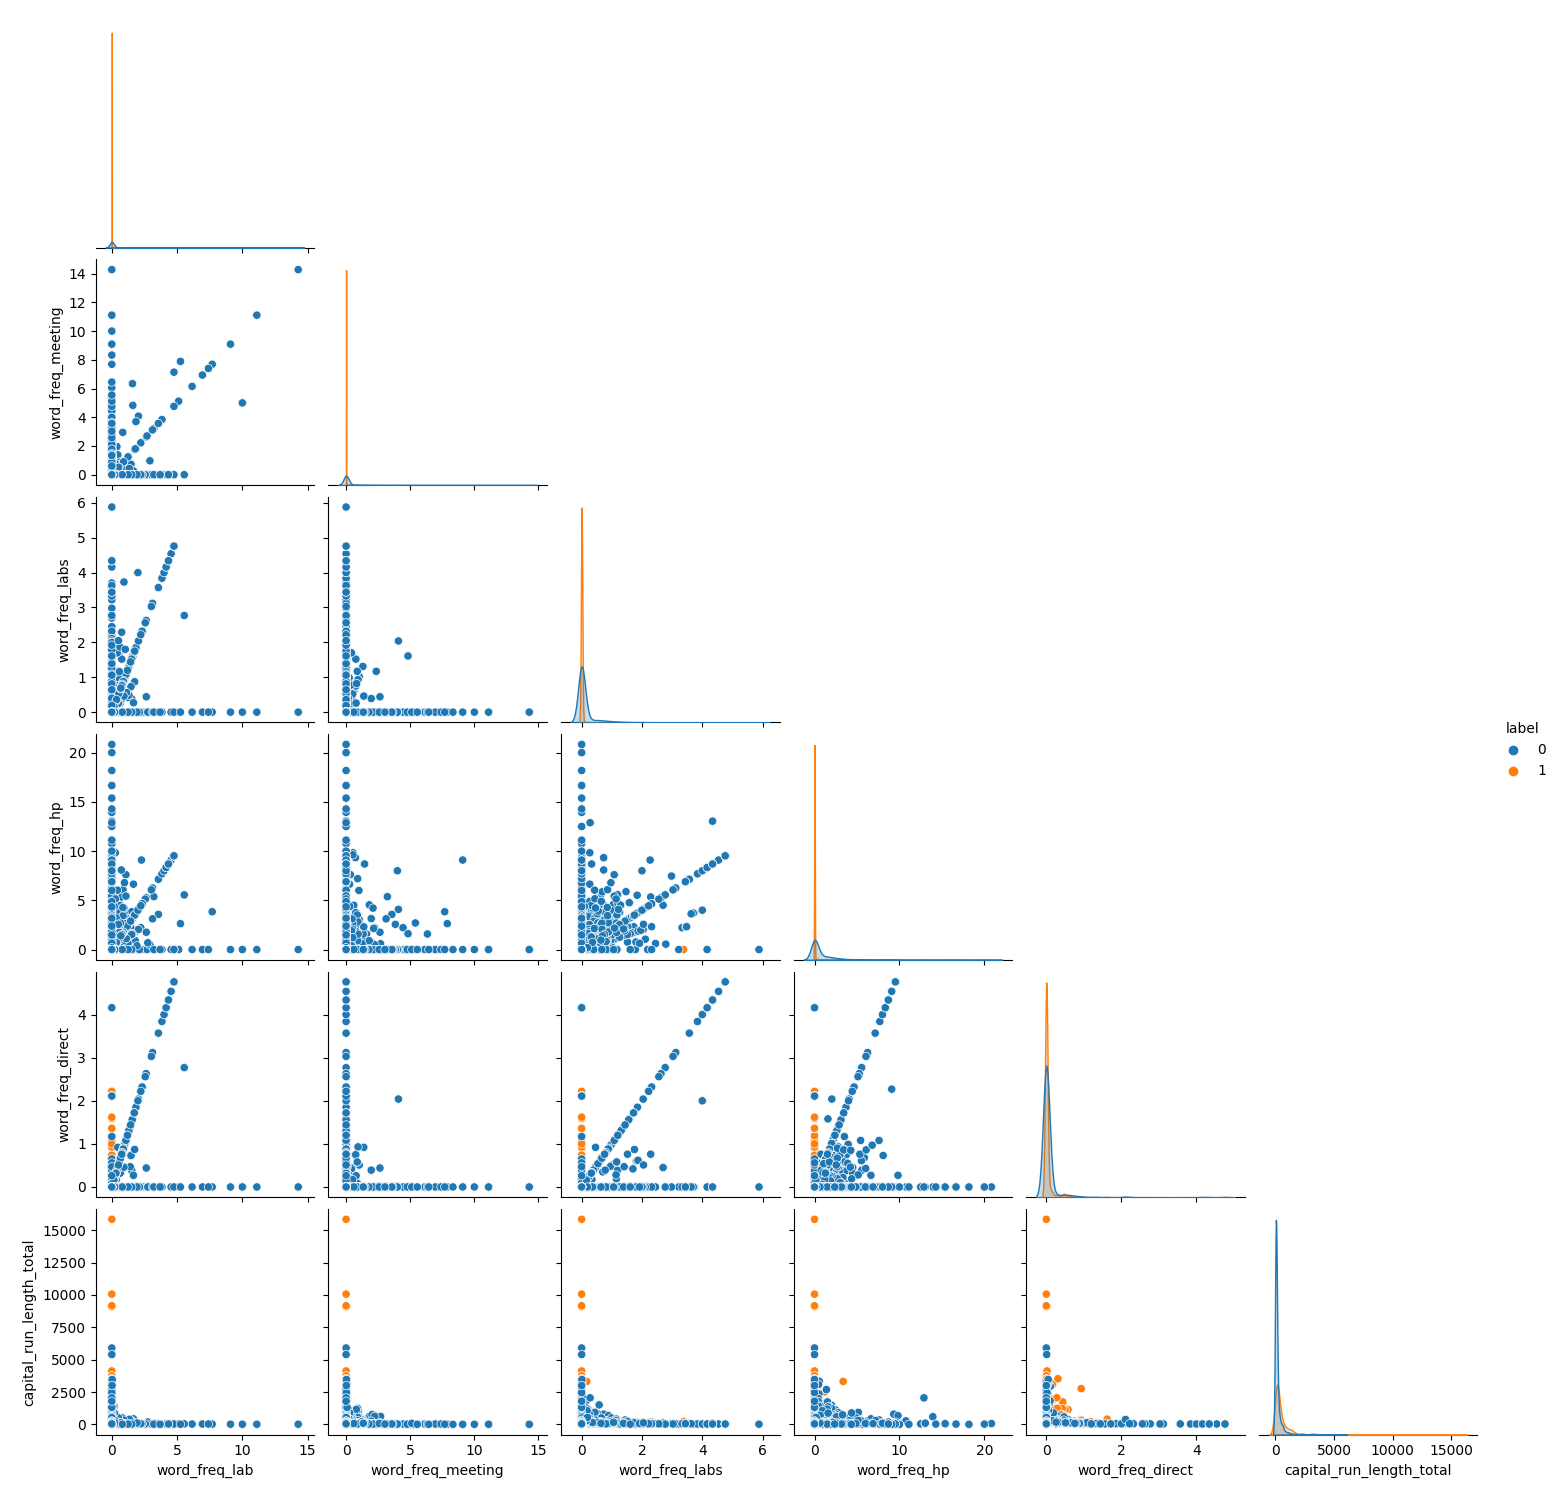
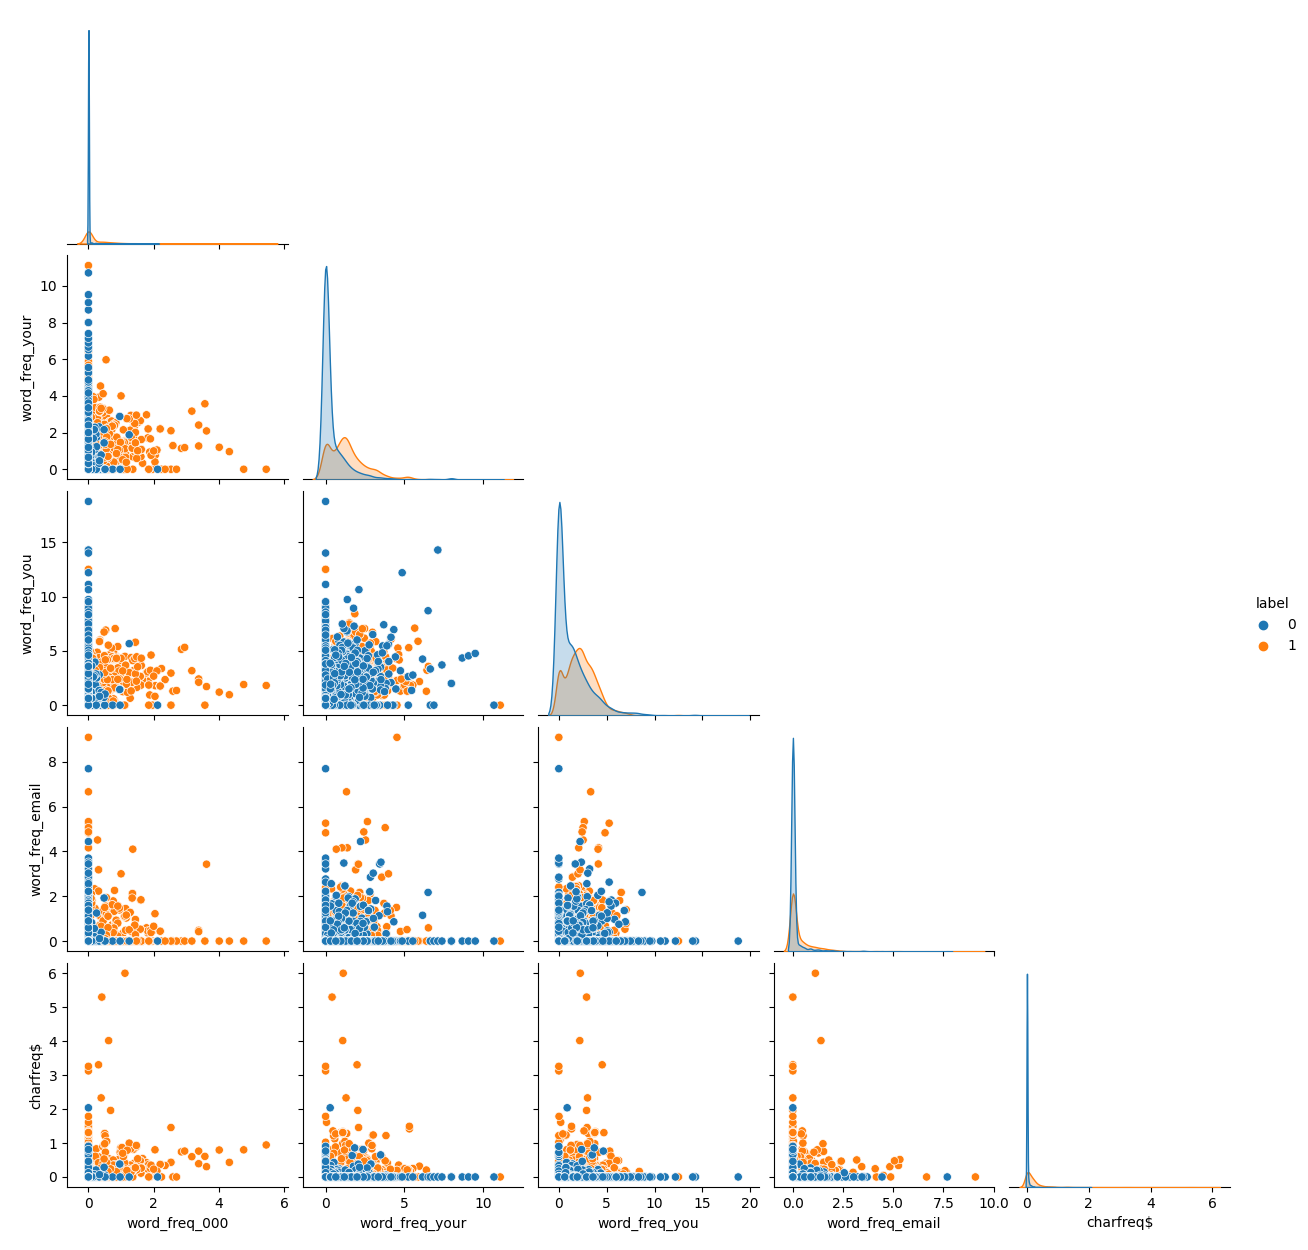
Add plots
<gabrielmichelassi@usp.br>

diff --git a/main.py b/main.py
@@ -7,7 +7,8 @@ from sklearn.model_selection import StratifiedKFold, GridSearchCV
 from sklearn.neural_network import MLPClassifier
 from sklearn.neighbors import KNeighborsClassifier
 from sklearn.tree import DecisionTreeClassifier
-from sklearn.metrics import balanced_accuracy_score
+from sklearn.model_selection import train_test_split
+from sklearn.metrics import plot_confusion_matrix, confusion_matrix
 
 classifiers = [KNeighborsClassifier(), MLPClassifier(), DecisionTreeClassifier()]
 params = [knn, mlp, decisionTree]
@@ -63,6 +64,8 @@ def normalize(X):
 
 
 def param_calibration(x, y):
+    X_train, X_test, y_train, y_test = train_test_split(x, y, train_size=0.8)
+
     cv = StratifiedKFold(n_splits=10)
 
     for classifier, param in zip(classifiers, params):
@@ -79,13 +82,16 @@ def param_calibration(x, y):
             verbose=0,
             refit='accuracy'
         )
-        results = grid_search.fit(x, y)
+        results = grid_search.fit(X_train, y_train)
 
         accuracy = results.best_score_
         precision = results.cv_results_['mean_test_precision'][results.best_index_]
         recall = results.cv_results_['mean_test_recall'][results.best_index_]
         f1 = results.cv_results_['mean_test_f1'][results.best_index_]
         parameters = results.best_params_
+
+        plot_confusion_matrix(results.best_estimator_, X_test, y_test, cmap='Purples')
+        plt.show()
 
         print("Acurácia: ", accuracy)
         print("Precisão: ", precision)
@@ -116,10 +122,14 @@ def show_dataset_info(x):
 
 if __name__ == '__main__':
 
+    best_attributes = ['word_freq_000', 'word_freq_your', 'word_freq_you', 'word_freq_email', 'charfreq$', 'label']
+
     np.set_printoptions(precision=3, suppress=True)
     pd.set_option('display.expand_frame_repr', False)
 
     x = pd.read_csv('spambase.csv')
+
+    pairplot(x[best_attributes])
 
     y = x['label']
     x = x.drop('label', axis=1)
